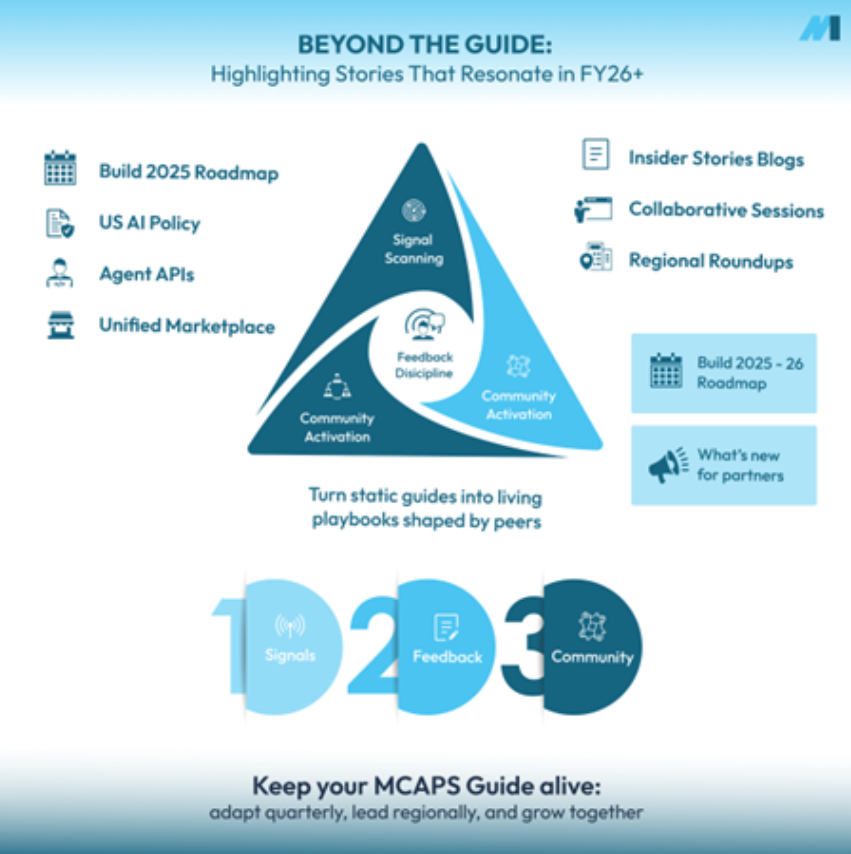
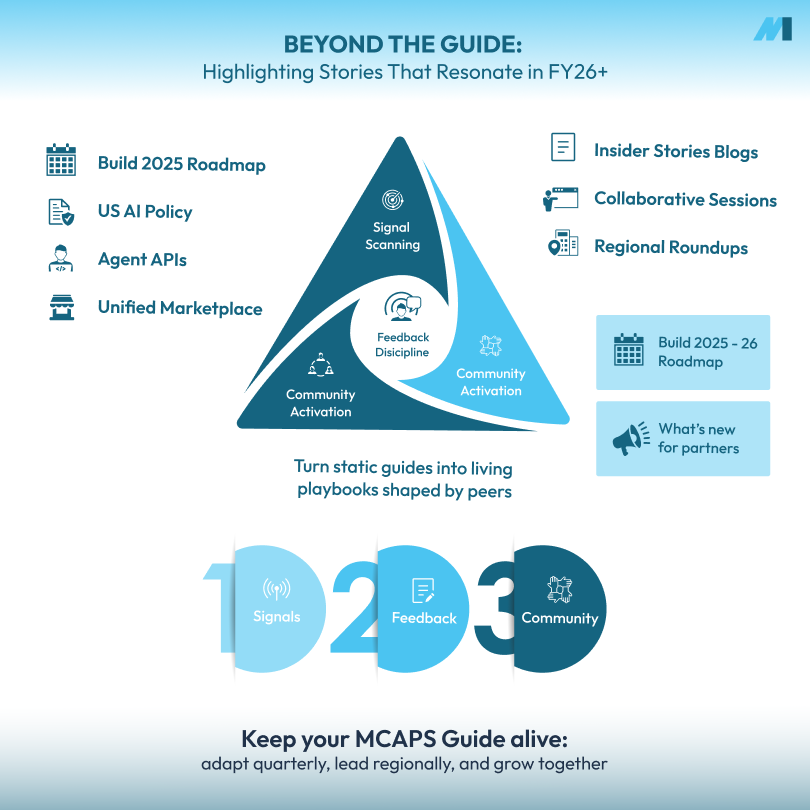
fix images

diff --git a/src/app/(default)/blogs/[slug]/page.tsx b/src/app/(default)/blogs/[slug]/page.tsx
@@ -197,6 +197,7 @@ const Post: React.FC<Params> = async ({ params }) => {
         <Image
           src={post.coverImage}
           alt={post.title}
+          unoptimized
           width={1200}
           height={600}
           className="h-auto w-full rounded-xl"